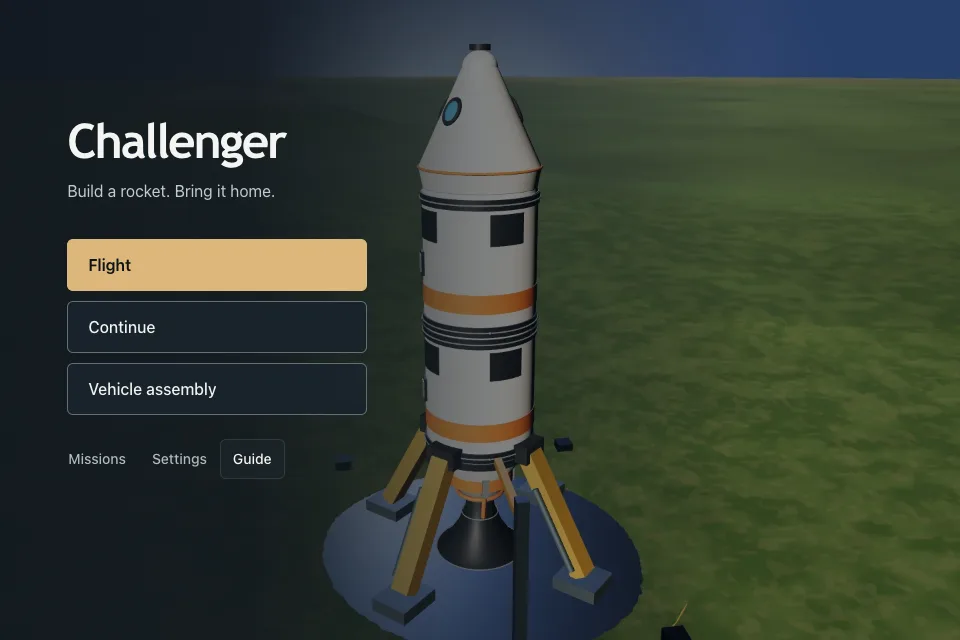
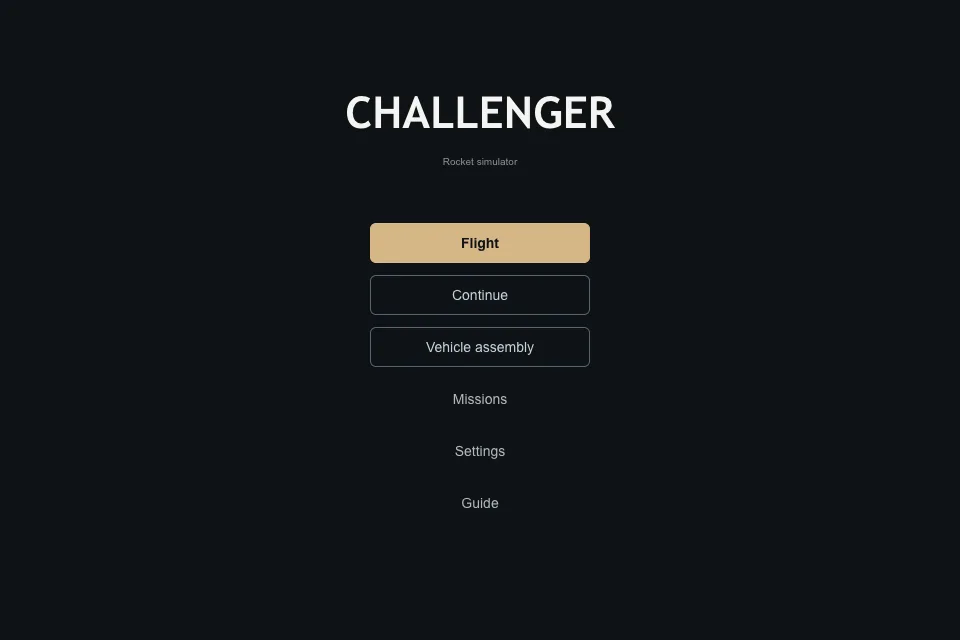
Restore the menu and list parts in build order

diff --git a/src/scenes/MainMenuScene.ts b/src/scenes/MainMenuScene.ts
@@ -28,48 +28,46 @@ export class MainMenuScene {
     this.life.listen(window,'keydown',e=>{if(e.key==='Escape'){this.helpOverlay?.remove();this.helpOverlay=null;this.missionsOverlay?.remove();this.missionsOverlay=null;}});
 
     this.root = document.createElement('div');
-    this.root.className = 'main-menu';
+    this.root.className = 'panel classic-menu';
     this.root.appendChild(this.playerCounter.element);
-    const content = document.createElement('div');
-    content.className = 'main-menu__content';
-    this.root.appendChild(content);
+    this.root.style.cssText = `
+      position: fixed; inset: 0; z-index: 500;
+      display: flex; flex-direction: column; align-items: center; justify-content: center;
+      background: rgba(16,19,22,0.97);
+      border: none; border-radius: 0;
+    `;
 
     const logo = document.createElement('div');
     logo.className = 'menu-logo';
+    logo.style.cssText = 'margin-bottom: var(--space-8); text-align: center;';
     logo.innerHTML = `
-      <h1 class="text-display">Challenger</h1>
-      <p>Build a rocket. Bring it home.</p>
+      <div class="text-display" style="font-size:clamp(28px, 7vw, 44px);letter-spacing:0;color:var(--text-primary);">CHALLENGER</div>
+      <div class="text-caption" style="margin-top:var(--space-2);letter-spacing:0;">Rocket simulator</div>
     `;
-    content.appendChild(logo);
-    const flights = document.createElement('nav');
-    flights.className = 'main-menu__flights';
-    flights.setAttribute('aria-label', 'Play');
-    content.appendChild(flights);
-    const links = document.createElement('nav');
-    links.className = 'main-menu__links';
-    links.setAttribute('aria-label', 'Game information');
-    content.appendChild(links);
+    this.root.appendChild(logo);
 
     const btn = (label: string, variant: string, cb: () => void): HTMLButtonElement => {
       const b = document.createElement('button');
       b.className = `btn btn--${variant} menu-btn`;
       b.textContent = label;
+      b.style.cssText = 'margin: 6px; min-width: 220px; padding: 12px 24px; font-size: 14px;';
       b.addEventListener('click', cb);
       return b;
     };
-    flights.appendChild(btn('Flight', 'primary', this.onPlay));
+    this.root.appendChild(btn('Flight', 'primary', this.onPlay));
     const continueButton = btn('Continue', 'secondary', () => this.onContinue?.());
     continueButton.disabled = !this.onContinue;
     continueButton.title = this.onContinue ? 'Open your last flight or build' : 'No saved flight yet. Choose Flight to start.';
-    flights.appendChild(continueButton);
-    flights.appendChild(btn('Vehicle assembly', 'secondary', this.onVab));
-    links.appendChild(btn('Missions', 'ghost', () => this.toggleMissions()));
-    links.appendChild(btn('Settings', 'ghost', this.onSettings));
-    links.appendChild(btn('Guide', 'ghost', () => this.toggleHelp()));
+    if (!this.onContinue) { continueButton.style.opacity = '0.45'; continueButton.style.cursor = 'default'; }
+    this.root.appendChild(continueButton);
+    this.root.appendChild(btn('Vehicle assembly', 'secondary', this.onVab));
+    this.root.appendChild(btn('Missions', 'ghost', () => this.toggleMissions()));
+    this.root.appendChild(btn('Settings', 'ghost', this.onSettings));
+    this.root.appendChild(btn('Guide', 'ghost', () => this.toggleHelp()));
     const version = document.createElement('div');
     version.textContent = `v${appVersion}`;
-    version.className = 'main-menu__version';
-    content.appendChild(version);
+    version.style.cssText = 'margin-top:18px;font:11px system-ui;color:#788495;';
+    this.root.appendChild(version);
 
   }
 

diff --git a/src/scenes/MainMenu.css b/src/scenes/MainMenu.css
@@ -1,23 +1,11 @@
-.main-menu {
-  position: fixed; inset: 0; z-index: 500; overflow: auto;
-  display: flex; align-items: center; padding: 64px clamp(24px, 7vw, 112px);
-  background: #10171d url('../../public/menu-launch.webp') center right / cover no-repeat;
-  isolation: isolate;
+.classic-menu {
+  --font-body: Arial, Helvetica, sans-serif;
+  --panel-bg: #20262B;
+  --panel-bg-alt: #1B2025;
+  --panel-border: #3D454D;
+  --accent-gold: #D5B786;
+  font-family: var(--font-body);
 }
-.main-menu::before {
-  content: ''; position: absolute; inset: 0; z-index: -1;
-  background: linear-gradient(90deg, #11181ff2 0%, #11181fe8 26%, #11181f80 50%, #11181f00 78%);
-}
-.main-menu__content { width: min(100%, 400px); }
-.menu-logo { margin-bottom: 36px; }
-.menu-logo h1 { margin: 0; font-size: clamp(36px, 5vw, 64px); letter-spacing: -.045em; line-height: 1.1; }
-.menu-logo p { margin: 12px 0 0; color: #c1cbd0; font-size: 16px; }
-.main-menu__flights { display: grid; gap: 10px; max-width: 300px; }
-.main-menu__flights .menu-btn { justify-content: flex-start; padding: 17px 20px; font-size: 16px; }
-.main-menu__flights .btn--secondary { background: #18232ce8; border-color: #617078; color: #f1f2ed; }
-.main-menu__links { display: flex; flex-wrap: wrap; margin: 24px 0 0 -12px; }
-.main-menu__links .menu-btn { padding: 12px; font-size: 14px; }
-.main-menu__version { margin-top: 32px; font: 12px var(--font-data); color: #acb7bd; }
 .menu-overlay { position: fixed; inset: 0; z-index: 600; display: grid; place-items: center; padding: 12px; background: #0e151deb; }
 .menu-dialog { width: min(560px, 100%); max-height: calc(100dvh - 24px); overflow: auto; padding: 28px; color: var(--text-primary); background: var(--panel-bg); border: 1px solid var(--panel-border); border-radius: 6px; font: 14px/1.6 var(--font-body); }
 .menu-dialog h2 { margin-top: 0; font-size: 24px; }
@@ -26,17 +14,10 @@
 .mission-row--done .mission-name { color: var(--success); }
 .mission-description { margin-top: 3px; font-size: 13px; color: var(--text-secondary); }
 @media (max-width: 600px) {
-  .main-menu { padding: 70px 24px 28px; background-position: 60% center; }
-  .main-menu::before { background: #11181fd6; }
-  .main-menu__content { margin: auto 0; }
-  .main-menu__flights { max-width: none; }
   .menu-dialog { padding: 20px; }
 }
-@media (max-height: 550px) {
-  .main-menu { align-items: flex-start; padding-top: 24px; padding-bottom: 24px; }
-  .menu-logo { margin-bottom: 18px; }
-  .menu-logo h1 { font-size: 36px; }
-  .main-menu__flights .menu-btn { padding: 12px 20px; }
-  .main-menu__links { margin-top: 12px; }
-  .main-menu__version { margin-top: 12px; }
+
+@media (max-height: 600px) {
+  .classic-menu { justify-content: flex-start !important; overflow-y: auto; padding: 24px 0; }
+  .classic-menu > * { flex-shrink: 0; }
 }

diff --git a/src/scenes/VABScene.ts b/src/scenes/VABScene.ts
@@ -321,19 +321,19 @@ export class VABScene {
     const dm=this.assembly.totalMass(), fl=this.assembly.totalFuelCapacity();
     const countParts = (nodes: typeof this.assembly.roots): number => nodes.reduce((sum,n) => sum + 1 + countParts(n.children),0);
     const count = countParts(this.assembly.roots);
-    this.info.innerHTML = `<div style="margin-bottom:6px;">${count} parts · ${(dm/1000).toFixed(1)} t${fl ? ' · '+(fl/1000).toFixed(1)+' t fuel' : ''}</div><div id="build-stack" style="max-height:24vh;overflow:auto;display:flex;flex-direction:column;gap:3px;"></div>`;
+    this.info.innerHTML = `<div style="margin-bottom:6px;">${count} parts · ${(dm/1000).toFixed(1)} t${fl ? ' · '+(fl/1000).toFixed(1)+' t fuel' : ''}</div><div style="margin-bottom:6px;color:#aebbc6;">Bottom to top</div><div id="build-stack" style="max-height:24vh;overflow:auto;display:flex;flex-direction:column;gap:3px;"></div>`;
     const list = this.info.querySelector('#build-stack')!;
-    // Display the physical top first, while retaining bottom-first assembly order.
-    for (let i = this.nm.length - 1; i >= 0; i--) {
+    // The first row is the bottom of the rocket.
+    for (let i = 0; i < this.nm.length; i++) {
       const row = document.createElement('div');
       row.style.cssText = 'display:flex;align-items:center;gap:3px;padding:4px;background:rgba(255,255,255,0.05);';
       const label = document.createElement('span');
-      label.textContent = this.nm[i]!;
+      label.textContent = `${i + 1}. ${this.nm[i]}`;
       label.style.cssText = 'flex:1;min-width:0;overflow:hidden;text-overflow:ellipsis;white-space:nowrap;';
       row.appendChild(label);
       for (const [action, symbol, title, disabled] of [
-        ['move-up', '↑', 'Move up', i === this.nm.length - 1],
-        ['move-down', '↓', 'Move down', i === 0],
+        ['move-up', '↑', 'Move toward nose:', i === this.nm.length - 1],
+        ['move-down', '↓', 'Move toward base:', i === 0],
         ['remove', '×', 'Remove', false],
       ] as const) {
         const button = document.createElement('button');

diff --git a/tests/vab-framing.test.ts b/tests/vab-framing.test.ts
@@ -180,3 +180,17 @@ it.each(['engine_ant','decoupler_s'])('can add a central tank and side pair with
   expect(mounts.every(n=>n.radial && n.children[0]?.part.kind==='engine')).toBe(true);
  }finally{vab.unmount();}
 });
+
+it('lists central parts in click order while stacking the first part at the bottom', () => {
+ const vab=new VABScene(()=>{},()=>{});vab.mount();
+ try {
+  const ids=['engine_ant','tank_s_lfo','capsule_s'];
+  for(const id of ids)document.querySelector<HTMLButtonElement>(`button[title='Add ${findPart(id)!.name}']`)!.click();
+  expect(vab.assembly.roots.map(n=>n.part.id)).toEqual(ids);
+  const heights=vab.assembly.roots.map(n=>n.position[1]);
+  expect(heights[0]).toBeLessThan(heights[1]!);
+  expect(heights[1]).toBeLessThan(heights[2]!);
+  const names=[...document.querySelectorAll('#build-stack > div > span')].map(e=>e.textContent);
+  expect(names).toEqual(ids.map((id,i)=>`${i+1}. ${findPart(id)!.name}`));
+ }finally{vab.unmount();}
+});

diff --git a/docs/3d-objects.md b/docs/3d-objects.md
@@ -16,7 +16,7 @@ The launch pad is a useful reference point when editing terrain. The rocket need
 
 ## Menu and tutorial images
 
-`public/menu-launch.webp` is a screenshot of the starter rocket in the game. It is a static background, not an imported spacecraft model or a second running 3D scene.
+`public/menu-launch.webp` is a screenshot of the starter rocket in the game. It was used by the screenshot menu. The restored 2.5.33 menu does not display it.
 
 The tutorial uses the images in `public/tutorial`. `scripts/capture-tutorial.mjs` captures the game with Puppeteer and records highlight positions in `src/ui/TutorialFrames.json`. It also makes closer views for small screens. The script navigates through the menu, assembly screen, flight and map. It is intended for a local game server so taking screenshots does not increment the public player counter.
 

diff --git a/docs/design-system.md b/docs/design-system.md
@@ -1,6 +1,6 @@
 # Interface notes
 
-The menu uses a screenshot of the starter rocket. Flight, Continue and Vehicle assembly sit together on the left; Missions, Settings and Guide are below them. On a narrow display the background darkens so the text stays readable over the rocket. The image is static and does not need an additional 3D scene.
+The main menu keeps the layout from 2.5.33: a plain dark background, centered title and a vertical stack of buttons. Gameplay and other interface fixes are maintained separately from this layout.
 
 The panels use dark slate, light text and an amber primary button. Most text uses the system font, with a separate display face for the title and monospace figures in the instruments. Green and red carry flight-state information.
 

diff --git a/DEVLOG.md b/DEVLOG.md
@@ -4,6 +4,10 @@ The current game uses 2.5.33 as its base. Later updates changed menu styling and
 
 ## Updates to the 2.5.33 build
 
+Vehicle assembly lists central parts from bottom to top, matching the order they are added. The rows are numbered; moving a part still changes its physical position in the rocket.
+
+The main menu was returned to the plain 2.5.33 layout. Gameplay fixes remain. The tutorial menu screenshot matches the restored layout.
+
 The ground-clearance display stays visible when hovering close to the surface. Launch checks now use fuel available to the current stage, and manually throttling a dry stage no longer repeats the countdown.
 
 ## 2.5.35 — before the rollback
